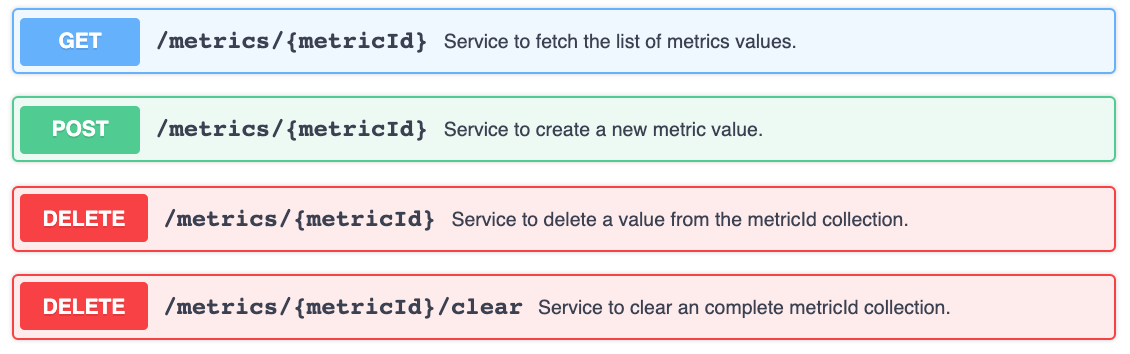
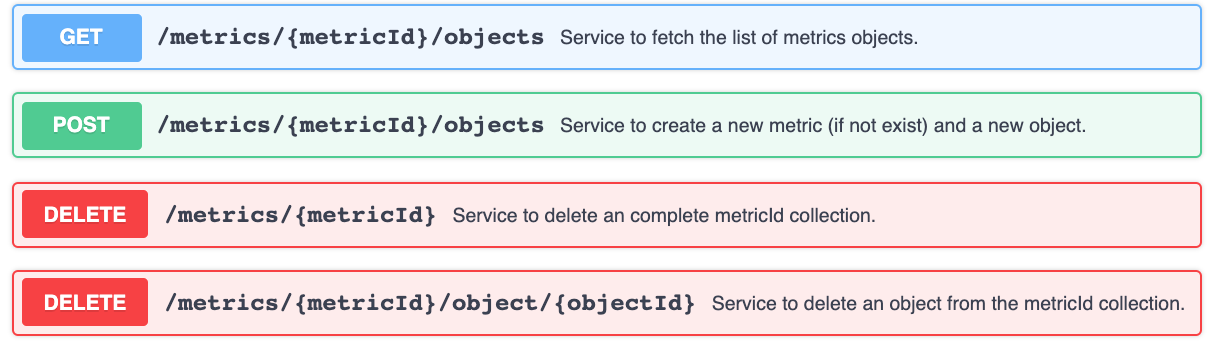
swagger contract update

diff --git a/index.js b/index.js
@@ -36,7 +36,7 @@ app.get ('/contract',  function (req, res) {
   res.sendFile(__dirname + '/doc/swagger.yaml');
 });
 
-app.delete ('/metrics/:metricId/clear',  function (req, res) {
+app.delete ('/metrics/:metricId',  function (req, res) {
   let metric = req.params.metricId;
   var reg = new RegExp("^[0-9a-zA-Z-]+$");
   if (metric.length == 0 || !reg.test(metric)) {
@@ -57,9 +57,9 @@ app.delete ('/metrics/:metricId/clear',  function (req, res) {
   });
 });
 
-app.delete ('/metrics/:metricId',  function (req, res) {
+app.delete ('/metrics/:metricId/object/:objectId',  function (req, res) {
   let metric = req.params.metricId;
-  let tm     = req.query.tm;
+  let objectId = req.params.objectId;
   
   var reg = new RegExp("^[0-9a-zA-Z-]+$");
   if (metric.length == 0 || !reg.test(metric)) {
@@ -67,14 +67,14 @@ app.delete ('/metrics/:metricId',  function (req, res) {
     return;
   }
   
-  if (isNaN(tm)) {
+  if (isNaN(objectId)) {
     res.status(400).send(newErrorObject ("400", "Bad Request", "ERROR","The \"tm\" query parameter need to be a epoc datetime number"));
     return;
   }
   
-  tm = parseInt(tm);
+  objectId = parseInt(objectId);
   var tp = new objdb({"basepath": __dirname + "/data/"});
-  tp.delete(metric, tm).then(data => {
+  tp.delete(metric, objectId).then(data => {
     if(debug) console.log ("Metric " + metric + " value = " + tm + " has been deleted.");
     res.status(204).send();
   }).catch (error => {
@@ -87,9 +87,7 @@ app.delete ('/metrics/:metricId',  function (req, res) {
   });
 });
 
-
-
-app.post ('/metrics/:metricId',  function (req, res) {
+app.post ('/metrics/:metricId/objects',  function (req, res) {
   let result = {};
   try {
     let start = new Date();
@@ -141,7 +139,7 @@ app.post ('/metrics/:metricId',  function (req, res) {
   } 
 });
 
-app.get ('/metrics/:metricId',  function (req, res) {
+app.get ('/metrics/:metricId/objects',  function (req, res) {
   let result = {};
   try {
     let start = new Date();
